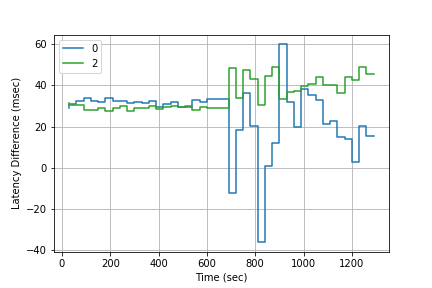
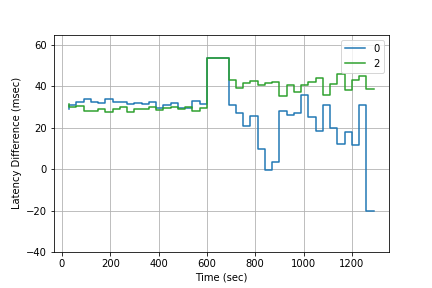
Fix measurement alignment logic

Changed region(s): [[0.0602, 0.125, 0.9028, 0.9062]]

diff --git a/radio_api/cell-order.py b/radio_api/cell-order.py
@@ -204,7 +204,7 @@ if __name__ == '__main__':
     # Define command line arguments
     parser = argparse.ArgumentParser()
     parser.add_argument('--config-file', type=str, required=True, help='Configuration file to parse.')
-    parser.add_argument('--t', type=float, default=0, help='Seconds to run for (0 for unlimited)')
+    parser.add_argument('--t', type=float, default=600, help='Seconds to run for (0 for unlimited)')
     parser.add_argument('--delay-budget-disabled', default=False, action='store_true',
                         help='Overwrite and disable delay budget control.')
     args = parser.parse_args()
